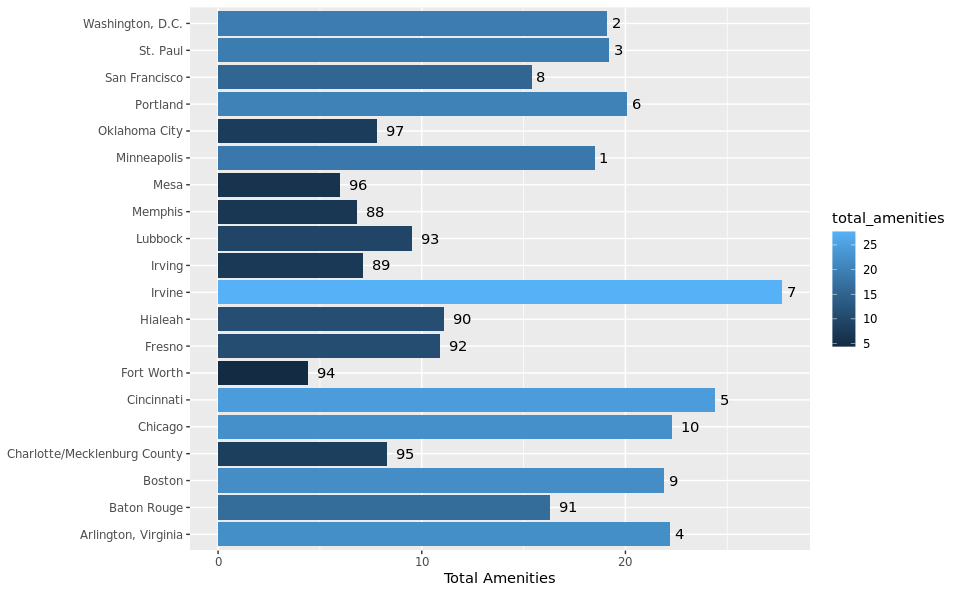
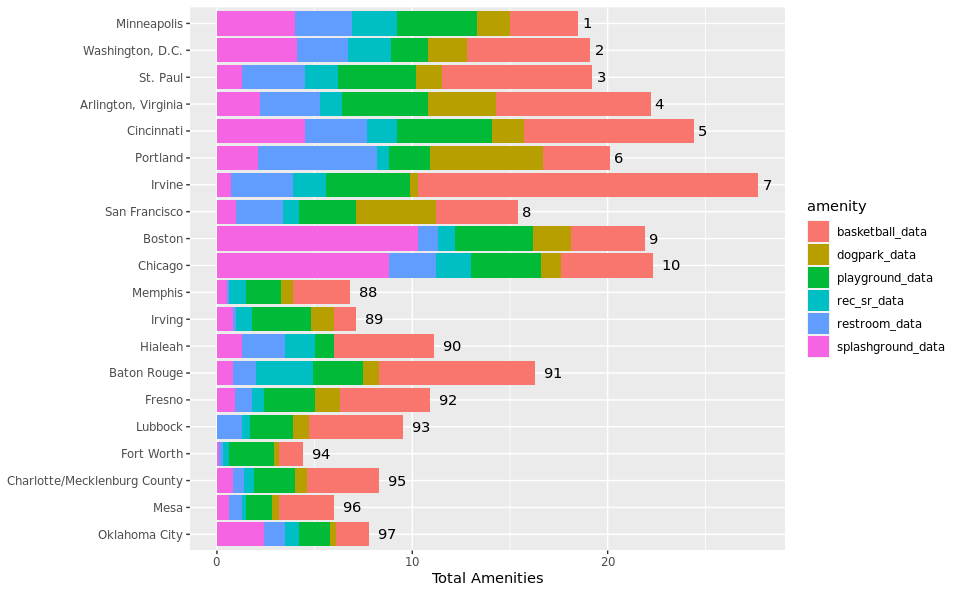
Question 2 updates

diff --git a/README.md b/README.md
@@ -246,10 +246,12 @@ parks_2020_coords <- parks_2020_coords %>%
            splashground_data)
 
 
-
 parks_amenities <- parks_2020_coords %>%
-  select(city, basketball_data, dogpark_data, playground_data, rec_sr_data,
-                    restroom_data, splashground_data, total_amenities)
+  pivot_longer(cols = c(basketball_data, dogpark_data, playground_data, rec_sr_data, restroom_data,
+           splashground_data), names_to = "amenity", values_to = "value")
+
+
+
 
 
 #parks_2020_coords <- parks_2020_coords %>%
@@ -258,22 +260,22 @@ parks_amenities <- parks_2020_coords %>%
    #                       rank >= 88 & rank < 93 ~ "3rd quartile",
     #                      rank >= 93 ~ "4th quartile"))
 
-ggplot(data = parks_amenities, mapping = aes(x = city, y = total_amenities, fill = total_amenities)) + 
-  geom_bar(stat = "identity") +
-  geom_text(data = parks_2020_coords, aes(label = rank), hjust = -.5, color = "black", family = "bold") +
+#ggplot(data = parks_amenities, mapping = aes(x = city, y = total_amenities, fill = total_amenities)) + 
+  #geom_bar(stat = "identity") +
+  #geom_text(data = parks_2020_coords, aes(label = rank), hjust = -.5, color = "black", family = "bold") +
+  #coord_flip() +
+  #labs(y = "Total Amenities", x = NULL)
+
+ggplot(data = parks_amenities, mapping = aes(x = reorder(city, -rank))) + 
+  geom_bar(stat = "identity", mapping = aes(y = value, fill = amenity)) +
+  geom_text(data = parks_2020_coords, mapping = aes(label = rank, y = total_amenities), hjust = -.5, 
+            color = "black",
+            family = "bold") +
   coord_flip() +
   labs(y = "Total Amenities", x = NULL)
 ```
 
 <img src="README_files/figure-gfm/question-2-vis-2-1.png" width="90%" />
-
-``` r
-#ggplot(data = parks_2020_coords, mapping = aes(x = reorder(city, -rank), y = total_amenities, fill = total_amenities)) + 
- # geom_bar(stat = "identity") +
-  #geom_text(aes(label = rank), hjust = -.5, color = "black", family = "bold") +
-  #coord_flip() +
-  #labs(y = "Total Amenities", x = NULL)
-```
 
 (2-3 code blocks, 2 figures, text/code comments as needed) In this
 section, provide the code that generates your plots. Use scale functions
